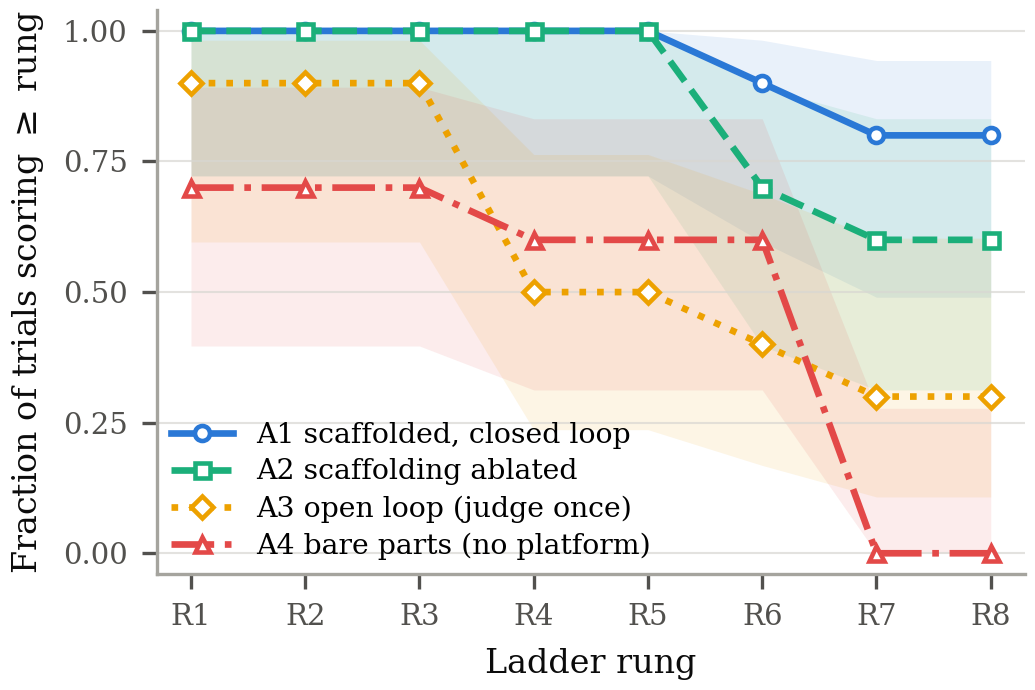
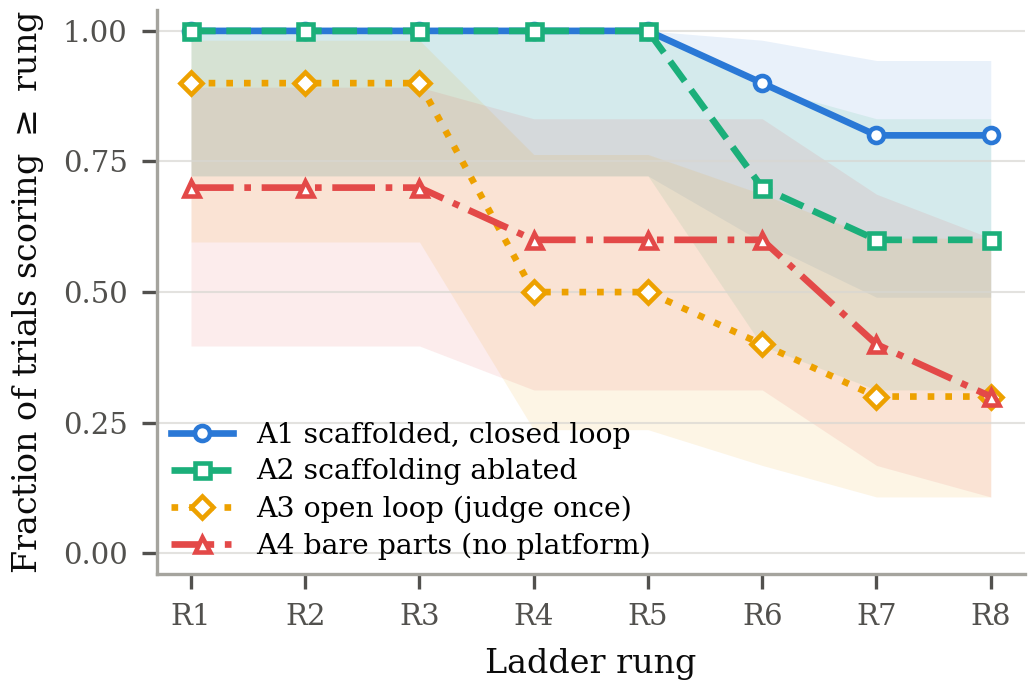
Agent study Amendment 3: bare-parts arm re-judged with the eval world staged; analysis regenerated; paper and agent_study pointers bumped

diff --git a/notebook/011-agent-study-v6-trials/results/d-analysis/analysis.py b/notebook/011-agent-study-v6-trials/results/d-analysis/analysis.py
@@ -76,6 +76,16 @@ EXPECTED_TAB = {  # arm -> (mean rung, mean judge calls, mean agent minutes, mea
     "A4": (4.7, 0.0, 82, 16.07, 10),
 }
 
+# AMENDMENT 3 (2026-09-08): the bare-parts arm's (raw A3) R7/R8 verdicts
+# were re-judged with the eval obstacle world actually staged into the
+# Gazebo workspace (v6 scored those flights against pillars absent from the
+# sim). Re-judged trials carry a `rescore` block in results.json; the
+# EXPECTED_* v6 hand tallies above are cross-checked ELEMENT-WISE for
+# non-rescored trials, and arm-level survival/tab tallies are cross-checked
+# only for arms with no rescored trial (A4's pre-amendment values are
+# emitted as reference).
+rescored = {}   # trial_id -> (original highest rung, new highest rung, rescore block)
+
 flags = []
 
 
@@ -99,6 +109,9 @@ def load_trials():
             flag(f"{d.name}: unexpected config_sha256 {r['config_sha256'][:8]} — excluded")
             continue
         r["_dir"] = d
+        if "rescore" in r:
+            rescored[r["trial_id"]] = (r["rescore"]["original_highest_rung_passed"],
+                                       r["highest_rung_passed"], r["rescore"])
         r["arm_raw"] = r["arm"]
         r["arm"] = RELABEL[r["arm"]]  # present under post-relabel labels
         trials.append(r)
@@ -166,8 +179,13 @@ def main():
             scores = [t["highest_rung_passed"] for t in ts]
             short = model.split("-")[1]
             emit(f"| {arm} {short} | " + " | ".join(s or "NULL" for s in scores) + " |")
-            if scores != EXPECTED_MATRIX[(RELABEL[arm], model)]:
-                flag(f"matrix {arm}/{model} (raw {RELABEL[arm]}): recomputed {scores} != §(c-final) {EXPECTED_MATRIX[(RELABEL[arm], model)]}")
+            exp_scores = EXPECTED_MATRIX[(RELABEL[arm], model)]
+            for t, got, exp in zip(ts, scores, exp_scores):
+                if t["trial_id"] in rescored:
+                    if rescored[t["trial_id"]][0] != exp:
+                        flag(f"matrix {arm}/{model} #{t['trial_index']}: pre-rescore score {rescored[t['trial_id']][0]} != §(c-final) {exp}")
+                elif got != exp:
+                    flag(f"matrix {arm}/{model} (raw {RELABEL[arm]}) #{t['trial_index']}: recomputed {got} != §(c-final) {exp}")
 
     # ------------------------------------------------------------ survival
     emit()
@@ -175,8 +193,10 @@ def main():
     emit()
     survival = {}       # arm -> [8 floats], pooled n=10
     survival_pm = {}    # (arm, model) -> [8 floats], n=5
+    pooled_by_arm = {}
     for arm in ARMS:
         pooled = [t for m in MODELS for t in by_cell[(arm, m)]]
+        pooled_by_arm[arm] = pooled
         survival[arm] = [
             sum(RUNG_NUM[t["highest_rung_passed"]] >= r for t in pooled) / len(pooled)
             for r in range(1, 9)
@@ -191,7 +211,10 @@ def main():
     emit("|---|" + "---|" * 8)
     for arm in ARMS:
         emit(f"| {arm} | " + " | ".join(f"{v:.1f}" for v in survival[arm]) + " |")
-        if any(abs(a - b) > 1e-9 for a, b in zip(survival[arm], EXPECTED_SURVIVAL[RELABEL[arm]])):
+        arm_rescored = any(t["trial_id"] in rescored for t in pooled_by_arm[arm])
+        if arm_rescored:
+            emit(f"| {arm} (v6 pre-Amendment-3 reference) | " + " | ".join(f"{v:.1f}" for v in EXPECTED_SURVIVAL[RELABEL[arm]]) + " |")
+        elif any(abs(a - b) > 1e-9 for a, b in zip(survival[arm], EXPECTED_SURVIVAL[RELABEL[arm]])):
             flag(f"survival {arm} (raw {RELABEL[arm]}): recomputed {survival[arm]} != §(c-final) {EXPECTED_SURVIVAL[RELABEL[arm]]}")
     emit()
     emit("Per model (n=5/cell):")
@@ -234,7 +257,10 @@ def main():
         exp = EXPECTED_TAB[RELABEL[arm]]
         got = (round(s["mean_rung"], 1), round(s["calls"][0], 1),
                round(s["hours"][0] * 60), round(s["cost"][0], 2), s["cost_n"])
-        if got != exp:
+        if any(t["trial_id"] in rescored for t in pooled):
+            emit(f"(tab {arm}: mean rung recomputed {got[0]} vs v6 pre-Amendment-3 {exp[0]}; "
+                 f"calls/time/cost unchanged by the re-judge)")
+        elif got != exp:
             flag(f"tab:agents {arm} (raw {RELABEL[arm]}): recomputed (rung,calls,min,cost,n)={got} != §(c-final) {exp}")
 
     emit("| Arm | R8 success | Mean rung | Hours | Judge calls | Cost USD (n) | ktok out |")
@@ -355,6 +381,17 @@ def main():
     emit()
     emit("Artifacts written: rung_survival.{pdf,png}, rung_survival_per_model.{pdf,png}, tab_agents.tex")
 
+    emit()
+    emit()
+    emit("## Amendment 3 re-judge (bare-parts arm R7/R8 with the eval world staged)")
+    emit()
+    if rescored:
+        emit("| Trial (raw id) | v6 score | re-judged score | eval world verified in sim | runner |")
+        emit("|---|---|---|---|---|")
+        for tid, (o, n, rb) in sorted(rescored.items()):
+            emit(f"| {tid} | {o or 'NULL'} | {n or 'NULL'} | {rb.get('eval_world_loaded_by_bringup')} | {rb['runner_commit'][:7]} |")
+    else:
+        emit("(no rescored trials found)")
     emit()
     if flags:
         emit(f"## DISCREPANCIES vs hand-tallied §(c-final): {len(flags)}")

diff --git a/notebook/011-agent-study-v6-trials/results/d-analysis/tab_agents.tex b/notebook/011-agent-study-v6-trials/results/d-analysis/tab_agents.tex
@@ -16,7 +16,7 @@ A2 & 6/10 & $2.6 \pm 0.8$ & $10.5 \pm 4.1$ & $18.11 \pm 4.81$ (9) \\
 \quad sonnet-5 & 1/5 & $3.1 \pm 0.9$ & $11.8 \pm 4.8$ & $15.87 \pm 5.78$ (4) \\
 \quad opus-5 & 5/5 & $2.1 \pm 0.3$ & $9.2 \pm 3.1$ & $19.90 \pm 3.49$ (5) \\
 A3 & 3/10 & $1.4 \pm 0.3$ & 0 (by design) & $16.07 \pm 4.46$ (10) \\
-A4 & 0/10 & $2.7 \pm 0.7$ & $13.6 \pm 2.8$ & $28.53 \pm 9.18$ (9) \\
+A4 & 3/10 & $2.7 \pm 0.7$ & $13.6 \pm 2.8$ & $28.53 \pm 9.18$ (9) \\
 \bottomrule
 \end{tabular}
 \end{table}

diff --git a/notebook/011-agent-study-v6-trials/results/results_summary.md b/notebook/011-agent-study-v6-trials/results/results_summary.md
@@ -521,3 +521,61 @@ highest bring-up cost and the most null final states).
 Not yet changed: `analysis/agent_study_v6_analysis.md`, `tab:agents`,
 `fig:rung_survival` (A4's ≥R7 = 0/10 and R8 = 0/10 cells derive from
 these verdicts), and the A3 protocol status lines.
+
+## (f) Amendment 3 re-judge of the bare-parts arm (raw `A3_*`, paper A4) — DONE (2026-09-08)
+
+**Fix.** `r5_provenance.py` (agent_study `d0a3482`) now stages the eval
+obstacle world on the A3 path for R7: `obstacles/world_r7.sdf` is
+written over `provided/world_practice.sdf` before the agent's `./bringup`
+(backup `.v6bak`) and restored in `finish()`. Rationale, alternatives
+and the reporting rule: `agent_study_protocol.md` AMENDMENT 3.
+Confirmed on the first re-judged bring-up: the agent's generated
+`run/world.sdf` contained all 14 eval pillars and none of the practice
+pillars.
+
+**Procedure.** [`runner/rescore_a3_r7.sh`](../../../agent_study/runner/rescore_a3_r7.sh)
+(v2 adds a host-process sweep between trials): per trial, originals kept
+as `results_v6_original.json` / `scoring_R7_v6_original.log`, then
+`./judge --scoring R7` through the workspace's own shim on a fresh
+judge-issued route, `R8` on an R7 pass, `results.json` updated with a
+`rescore` block (amendment, runner commit, original score, eval-world
+evidence). Serial, one GPU, 23:20–23:50 UTC.
+
+| Raw trial (paper A4) | v6 score | Re-judged | R7 flight (eval world staged) | R8 |
+|---|---|---|---|---|
+| A3/opus-5 #1 | R3 | **R3** | FAIL — route flown, min clearance **0.31 m** vs 1.0 m gate (track passes *through* a practice-pillar position: practice field absent) | — |
+| A3/opus-5 #2 | R6 | **R7** | PASS — 7 checkpoints, goal error 0.01 m, min clearance 2.83 m | FAIL — landed (agent log: "landed and disarmed at z=0.03") but its odometry z drifted −0.7 → +1.5 m across the cycle, so "at rest within 0.5 m of start" never held; reproduced in a diagnostic rerun with 1 Hz odometry sampling (`diag_r8_*/`) |
+| A3/opus-5 #3 | R6 | **R8** | PASS — 8 checkpoints, goal error 0.05 m, min clearance 2.03 m (first attempt was an infra bring-up failure — leftover host relays from the previous workspace; rerun per rule 4, log kept as `scoring_R7_rejudge1_infra_bringup_fail.log`) | PASS (−0.06 m) |
+| A3/opus-5 #4 | R6 | **R8** | PASS — 8 checkpoints, goal error 0.17 m, min clearance 1.49 m | PASS (−0.12 m) |
+| A3/opus-5 #5 | R6 | **R8** | PASS — 9 checkpoints, goal error 0.02 m, min clearance 1.87 m | PASS (+0.30 m) |
+| A3/sonnet-5 #1 | R6 | R6 | not re-judgeable: bring-up launches a session-time snapshot of the practice world (`sim/worlds/r7_pillars.sdf`), never reads `provided/` | — |
+| A3/sonnet-5 #2 | R6 | R6 | not re-judgeable: bring-up launches PX4's stock `gz_x500` default world — no obstacles at all | — |
+| A3/sonnet-5 #3–#5 | NULL | NULL | final state fails bring-up (unchanged) | — |
+
+**Was the eval field really in the sim for the passes?** The post-hoc
+world-file check only works for #1 (its R8 never ran); for #2–#5 the R8
+bring-up regenerated the world from the restored practice file. The
+flown tracks decide it: on every route the straight legs would have
+clipped an eval pillar (leg clearance −0.07 … −1.03 m) and the flown
+track stays ≥ 1.49 m from every eval pillar — avoidance of *eval*
+pillars — while three of the five tracks pass through or within 0.15 m
+of a practice-pillar position (practice pillars absent). Recorded per
+trial in `results.json → rescore.eval_world_evidence`.
+
+**New A4 cell:** opus R3, R7, R8, R8, R8 · sonnet R6, R6, NULL, NULL,
+NULL → survival ≥R6 0.6, ≥R7 **0.4**, R8 **0.3** (was 0.0 / 0.0); mean
+rung 4.6 (was 3.9). Everything else unchanged. `d-analysis/analysis.py`
+re-run: it now cross-checks §(c-final) element-wise for non-rescored
+trials, prints A4's pre-amendment values as reference, and emits an
+"Amendment 3 re-judge" table; zero discrepancies.
+[`rung_survival.pdf`](d-analysis/rung_survival.pdf) regenerated and
+copied to the paper with the analysis record.
+
+**What this changes in the paper.** The "platform gap" is no longer a
+ceiling effect (A4 0% ≥R7) but a consistency/cost effect: A4 reached the
+full ladder 3/10 (all opus-5) at ~2× A1's wall-clock, tokens and cost,
+and shipped three non-booting systems. The pillar-penetration sentence
+is gone. A limitation is added: A4's in-session R7 verdicts during the
+campaign were invalid (same defect) and cannot be re-run; two sonnet-5
+trials broke working R6 systems chasing them. §(c-final) and §(d) above
+are the v6 record and are superseded for A4 by this section.

diff --git a/notebook/011-agent-study-v6-trials/results/d-analysis/analysis_output.md b/notebook/011-agent-study-v6-trials/results/d-analysis/analysis_output.md
@@ -17,7 +17,7 @@ airstack_commit: ['961fb9e1']; composed-prompt sha per arm: {'A1': ['afad954d'],
 | A3 sonnet | NULL | R6 | R8 | R3 | R3 |
 | A3 opus | R8 | R3 | R5 | R8 | R3 |
 | A4 sonnet | R6 | R6 | NULL | NULL | NULL |
-| A4 opus | R3 | R6 | R6 | R6 | R6 |
+| A4 opus | R3 | R7 | R8 | R8 | R8 |
 
 ## Rung survival: fraction of trials with score >= rung
 
@@ -26,7 +26,8 @@ airstack_commit: ['961fb9e1']; composed-prompt sha per arm: {'A1': ['afad954d'],
 | A1 | 1.0 | 1.0 | 1.0 | 1.0 | 1.0 | 0.9 | 0.8 | 0.8 |
 | A2 | 1.0 | 1.0 | 1.0 | 1.0 | 1.0 | 0.7 | 0.6 | 0.6 |
 | A3 | 0.9 | 0.9 | 0.9 | 0.5 | 0.5 | 0.4 | 0.3 | 0.3 |
-| A4 | 0.7 | 0.7 | 0.7 | 0.6 | 0.6 | 0.6 | 0.0 | 0.0 |
+| A4 | 0.7 | 0.7 | 0.7 | 0.6 | 0.6 | 0.6 | 0.4 | 0.3 |
+| A4 (v6 pre-Amendment-3 reference) | 0.7 | 0.7 | 0.7 | 0.6 | 0.6 | 0.6 | 0.0 | 0.0 |
 
 Per model (n=5/cell):
 
@@ -39,10 +40,11 @@ Per model (n=5/cell):
 | A3 sonnet | 0.8 | 0.8 | 0.8 | 0.4 | 0.4 | 0.4 | 0.2 | 0.2 |
 | A3 opus | 1.0 | 1.0 | 1.0 | 0.6 | 0.6 | 0.4 | 0.4 | 0.4 |
 | A4 sonnet | 0.4 | 0.4 | 0.4 | 0.4 | 0.4 | 0.4 | 0.0 | 0.0 |
-| A4 opus | 1.0 | 1.0 | 1.0 | 0.8 | 0.8 | 0.8 | 0.0 | 0.0 |
+| A4 opus | 1.0 | 1.0 | 1.0 | 0.8 | 0.8 | 0.8 | 0.8 | 0.6 |
 
 ## tab:agents statistics (mean ± sd)
 
+(tab A4: mean rung recomputed 4.6 vs v6 pre-Amendment-3 3.9; calls/time/cost unchanged by the re-judge)
 | Arm | R8 success | Mean rung | Hours | Judge calls | Cost USD (n) | ktok out |
 |---|---|---|---|---|---|---|
 | A1 | 8/10 | 7.5 | 2.14 ± 0.42 | 9.8 ± 2.6 | 17.25 ± 7.86 (10) | 115 ± 31 |
@@ -50,7 +52,7 @@ Per model (n=5/cell):
 | &nbsp;&nbsp;A2 sonnet | 1/5 | 5.8 | 3.14 ± 0.85 | 11.8 ± 4.8 | 15.87 ± 5.78 (4) | 144 ± 47 |
 | &nbsp;&nbsp;A2 opus | 5/5 | 8.0 | 2.12 ± 0.30 | 9.2 ± 3.1 | 19.90 ± 3.49 (5) | 104 ± 21 |
 | A3 | 3/10 | 4.7 | 1.37 ± 0.29 | 0.0 ± 0.0 | 16.07 ± 4.46 (10) | 117 ± 28 |
-| A4 | 0/10 | 3.9 | 2.66 ± 0.73 | 13.6 ± 2.8 | 28.53 ± 9.18 (9) | 245 ± 52 |
+| A4 | 3/10 | 4.6 | 2.66 ± 0.73 | 13.6 ± 2.8 | 28.53 ± 9.18 (9) | 245 ± 52 |
 
 Total recorded spend: $752.87 over 38 trials; unrecorded (wall-clock kill lost usage event): ['A2_claude-sonnet-5_ladder_claude_005', 'A3_claude-opus-5_ladder_claude_001']
 
@@ -88,5 +90,15 @@ A trial counts once per category if its transcript shows >=1 use;
 
 Artifacts written: rung_survival.{pdf,png}, rung_survival_per_model.{pdf,png}, tab_agents.tex
 
-## DISCREPANCIES vs hand-tallied §(c-final): 1
-- tab:agents A4 (raw A3): recomputed (rung,calls,min,cost,n)=(3.9, 13.6, 159, 28.53, 9) != §(c-final) (3.9, 13.6, 160, 28.53, 9)
+
+## Amendment 3 re-judge (bare-parts arm R7/R8 with the eval world staged)
+
+| Trial (raw id) | v6 score | re-judged score | eval world verified in sim | runner |
+|---|---|---|---|---|
+| A3_claude-opus-5_ladder_claude_001 | R3 | R3 | True | d0a3482 |
+| A3_claude-opus-5_ladder_claude_002 | R6 | R7 | True | d0a3482 |
+| A3_claude-opus-5_ladder_claude_003 | R6 | R8 | True | d0a3482 |
+| A3_claude-opus-5_ladder_claude_004 | R6 | R8 | True | d0a3482 |
+| A3_claude-opus-5_ladder_claude_005 | R6 | R8 | True | d0a3482 |
+
+## DISCREPANCIES vs hand-tallied §(c-final): none — every recomputed value matches.

diff --git a/notebook/strategy.md b/notebook/strategy.md
@@ -162,6 +162,22 @@ III-D, positioning.md (named-concept scope, evidence hierarchy, release
 gate wording). Evidence: `012-paper-measurement-studies/reuse/results/summary.md`,
 `012-paper-measurement-studies/defects/results/summary.md`.
 
+### 2026-09-08 (later) — Amendment 3 re-judge lands: A4 (bare parts) is a consistency/cost gap, not a ceiling
+
+Judge fixed (agent_study `d0a3482`: eval world staged on the Gazebo
+path) and the five re-judgeable A4 final states re-scored on fresh
+routes ([011 §(f)](011-agent-study-v6-trials/results/results_summary.md)):
+opus-5 R3, R7, R8, R8, R8; sonnet-5 unchanged (R6, R6 — systems that
+cannot load the eval field — and three nulls). A4 survival ≥R7 0.0 →
+**0.4**, R8 0.0 → **0.3**. **What it changes:** the paper's platform
+gap (A1–A4) now rests on consistency and cost — A1 8/10 vs A4 3/10 at
+R8, A4 at ~2× A1's wall-clock/tokens/dollars with three non-booting
+final states — not on "no A4 system ever passed the obstacle rung".
+Paper Sec. VI-C rewritten accordingly (Protocol discloses the defect
+and re-judge; Threats notes that A4's in-session R7 feedback was
+invalid and two sonnet-5 systems were dismantled chasing it).
+Non-re-judgeable A4 systems keep R7 = fail by protocol (Amendment 3).
+
 ### 2026-09-08 — A4 (bare-parts) R7 verdicts judged against a layout never loaded in its simulator
 
 While producing the Sec. VI-C qualitative scene figure (entry
